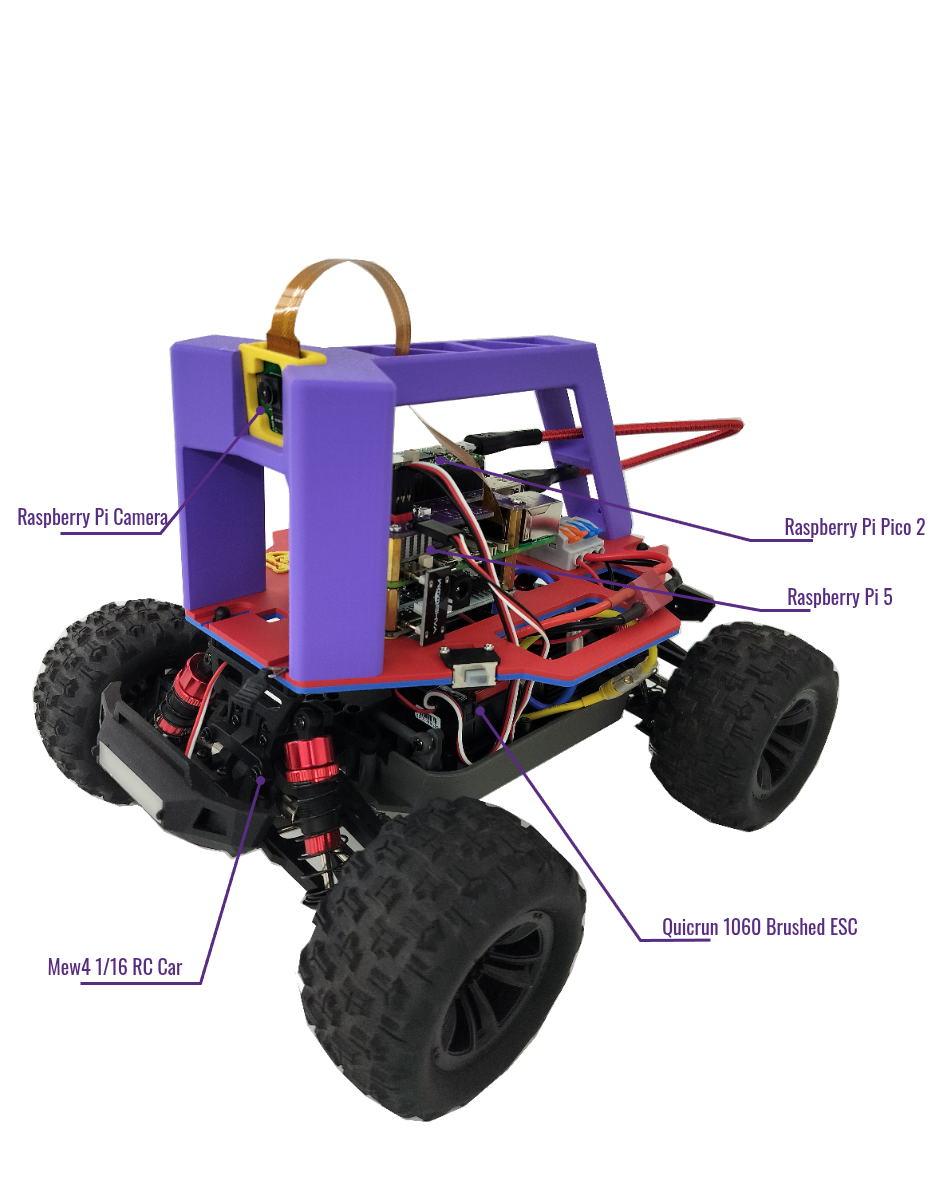
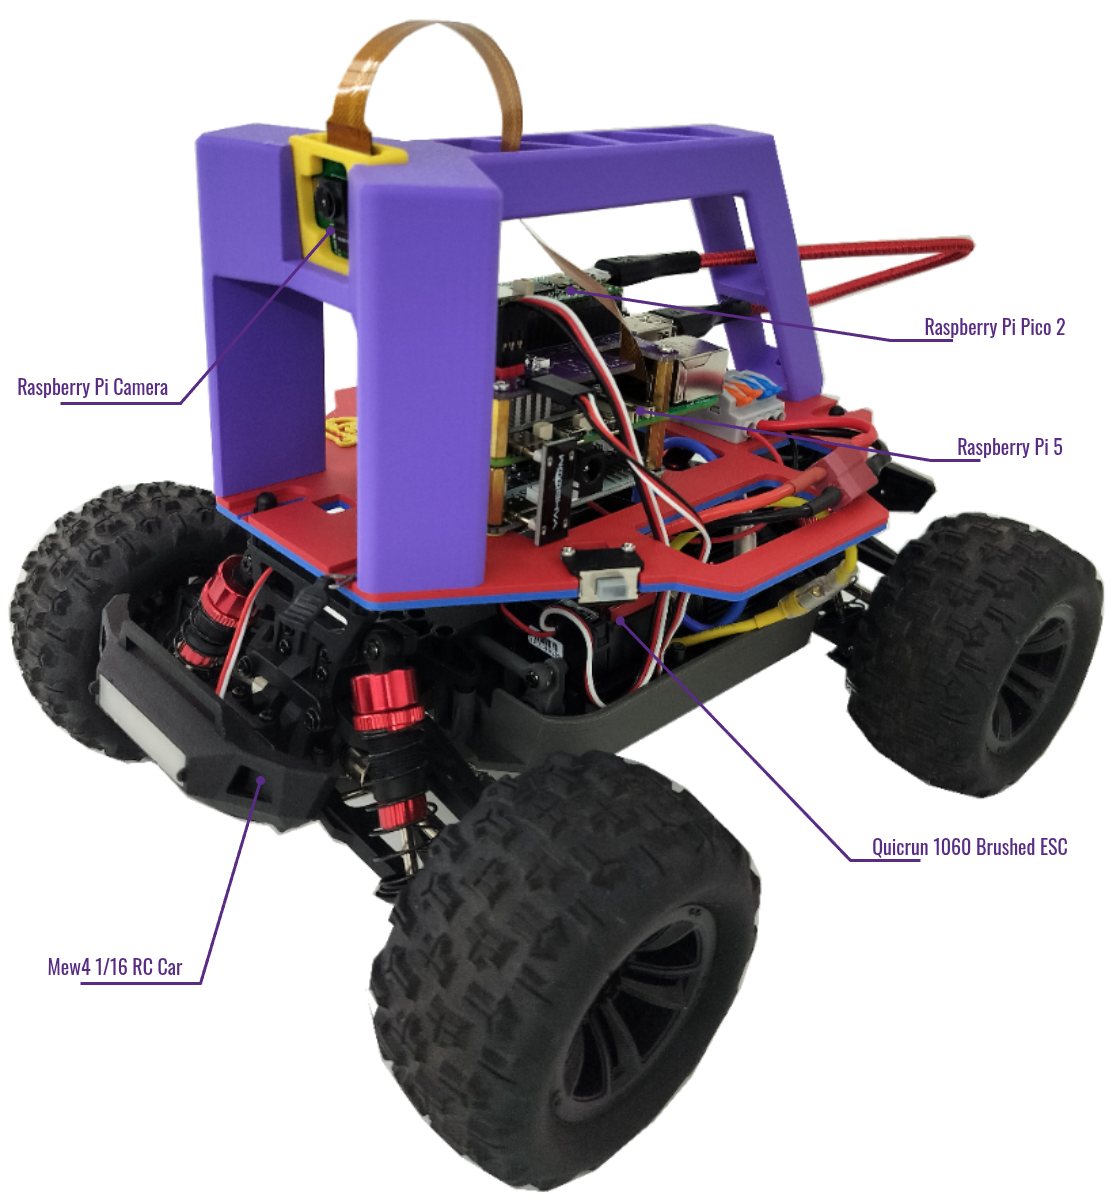
update assembly guide

diff --git a/docs/assembly.md b/docs/assembly.md
@@ -57,40 +57,75 @@ We recommend you to plug positive wires to the orange channels, and negative wir
 
 ## 3 Frame Bed Assembly
 
-1. Wire Splitter Assembly Installation (2xM2.5-12 screws and 2xM2.5 nuts)
-2. Stack Raspberry Pi 5 (4xM2.5-15 standoffs)
-3. Plug in camera ribbon (22-Pin to 15-Pin RPi camera cable)
-4. Stack Pico carrier board (4xM2.5-6 screws) and Raspberry Pi Pico.
-
 ### 3.1 Splitter Assembly Installation
+
+- 2xM2.5-12 screws and 2xM2.5 nuts.
 
 ![splitter install](images/assembly/splitter_install.jpg)
 
 ### 3.2 RPi Power Expansion Board Installation
 
-![peb_install](images/assembly/peb_install.jpg)
+- 4xM2.5-15 standoffs
+- (Optional) 4xM2.5 nuts, for under the bed secure.
+
+![peb_install](images/assembly/peb_install.png)
 
 ### 3.3 Raspberry Pi 5 Installation
+
+- 22-Pin to 15-Pin RPi camera cable.
+- It is recommended to attach the camera cable at this step.
+- Watch out camera cable's direction.
 
 ![pi5_install](images/assembly/pi5_install.jpg)
 
 ### 3.4 Pico Carrier Installation
 
+- 4xM2.5-6 screws
+
 ![carrier_install](images/assembly/carrier_install.jpg)
 
 ## 4 Frame Handle Assembly
 
-1. Assemble camera module.
-2. Mount camera to the case.
-3. Attach camera case assembly to handle.
-4. Assemble the handle and the bed.
+### 4.1 Handle Bed Assembly
+
+- 3xM4-10 screws
+
+![handle_bed_assemble](images/assembly/handle_bed_assemble.jpg)
+
+### 4.2 Raspberry Pi Camera Assembly
+
+- Watch out for camera cable's direction.
+
+![picam_assemble](images/assembly/picam_assemble.jpg)
+
+### 4.3 Camera Assembly Installation
+
+![cam_install](images/assembly/cam_install.jpg)
 
 ## 5 Car-Frame Integration
 
-1. Attach ESC switch.
-2. Fasten frame to car body.
-3. Connect ESC and servo signal wires to Pico carrier board.
-4. Connect Pico to Pi 5 with Micro-USB cable
-5. Connect ESC power wires.
-6. Connect RPi power expansion board power input wires.
-7. Connect battery.
+### 5.1 Attach ESC switch
+
+![switch_install](images/assembly/switch_install.jpg)
+
+### 5.2 ESC and Servo Wiring
+
+- White - Sig
+- Red - VBEC
+- Black - GND
+
+![esc_servo_carrier](images/assembly/esc_servo_carrier.jpg)
+
+### 5.3 Connect Power Wires
+
+- Male T-plug to battery.
+- Female T-plug to ESC.
+- JST-XH to RPi power expansion board.
+
+### 5.4 Finish Frame Assembly
+
+- Fasten frame bed to car chassis.
+- Connect Pico and Pi 5 using micro-USB cable.
+- Connect battery.
+
+![finish_assemble](images/bearcar_annotate.png)
